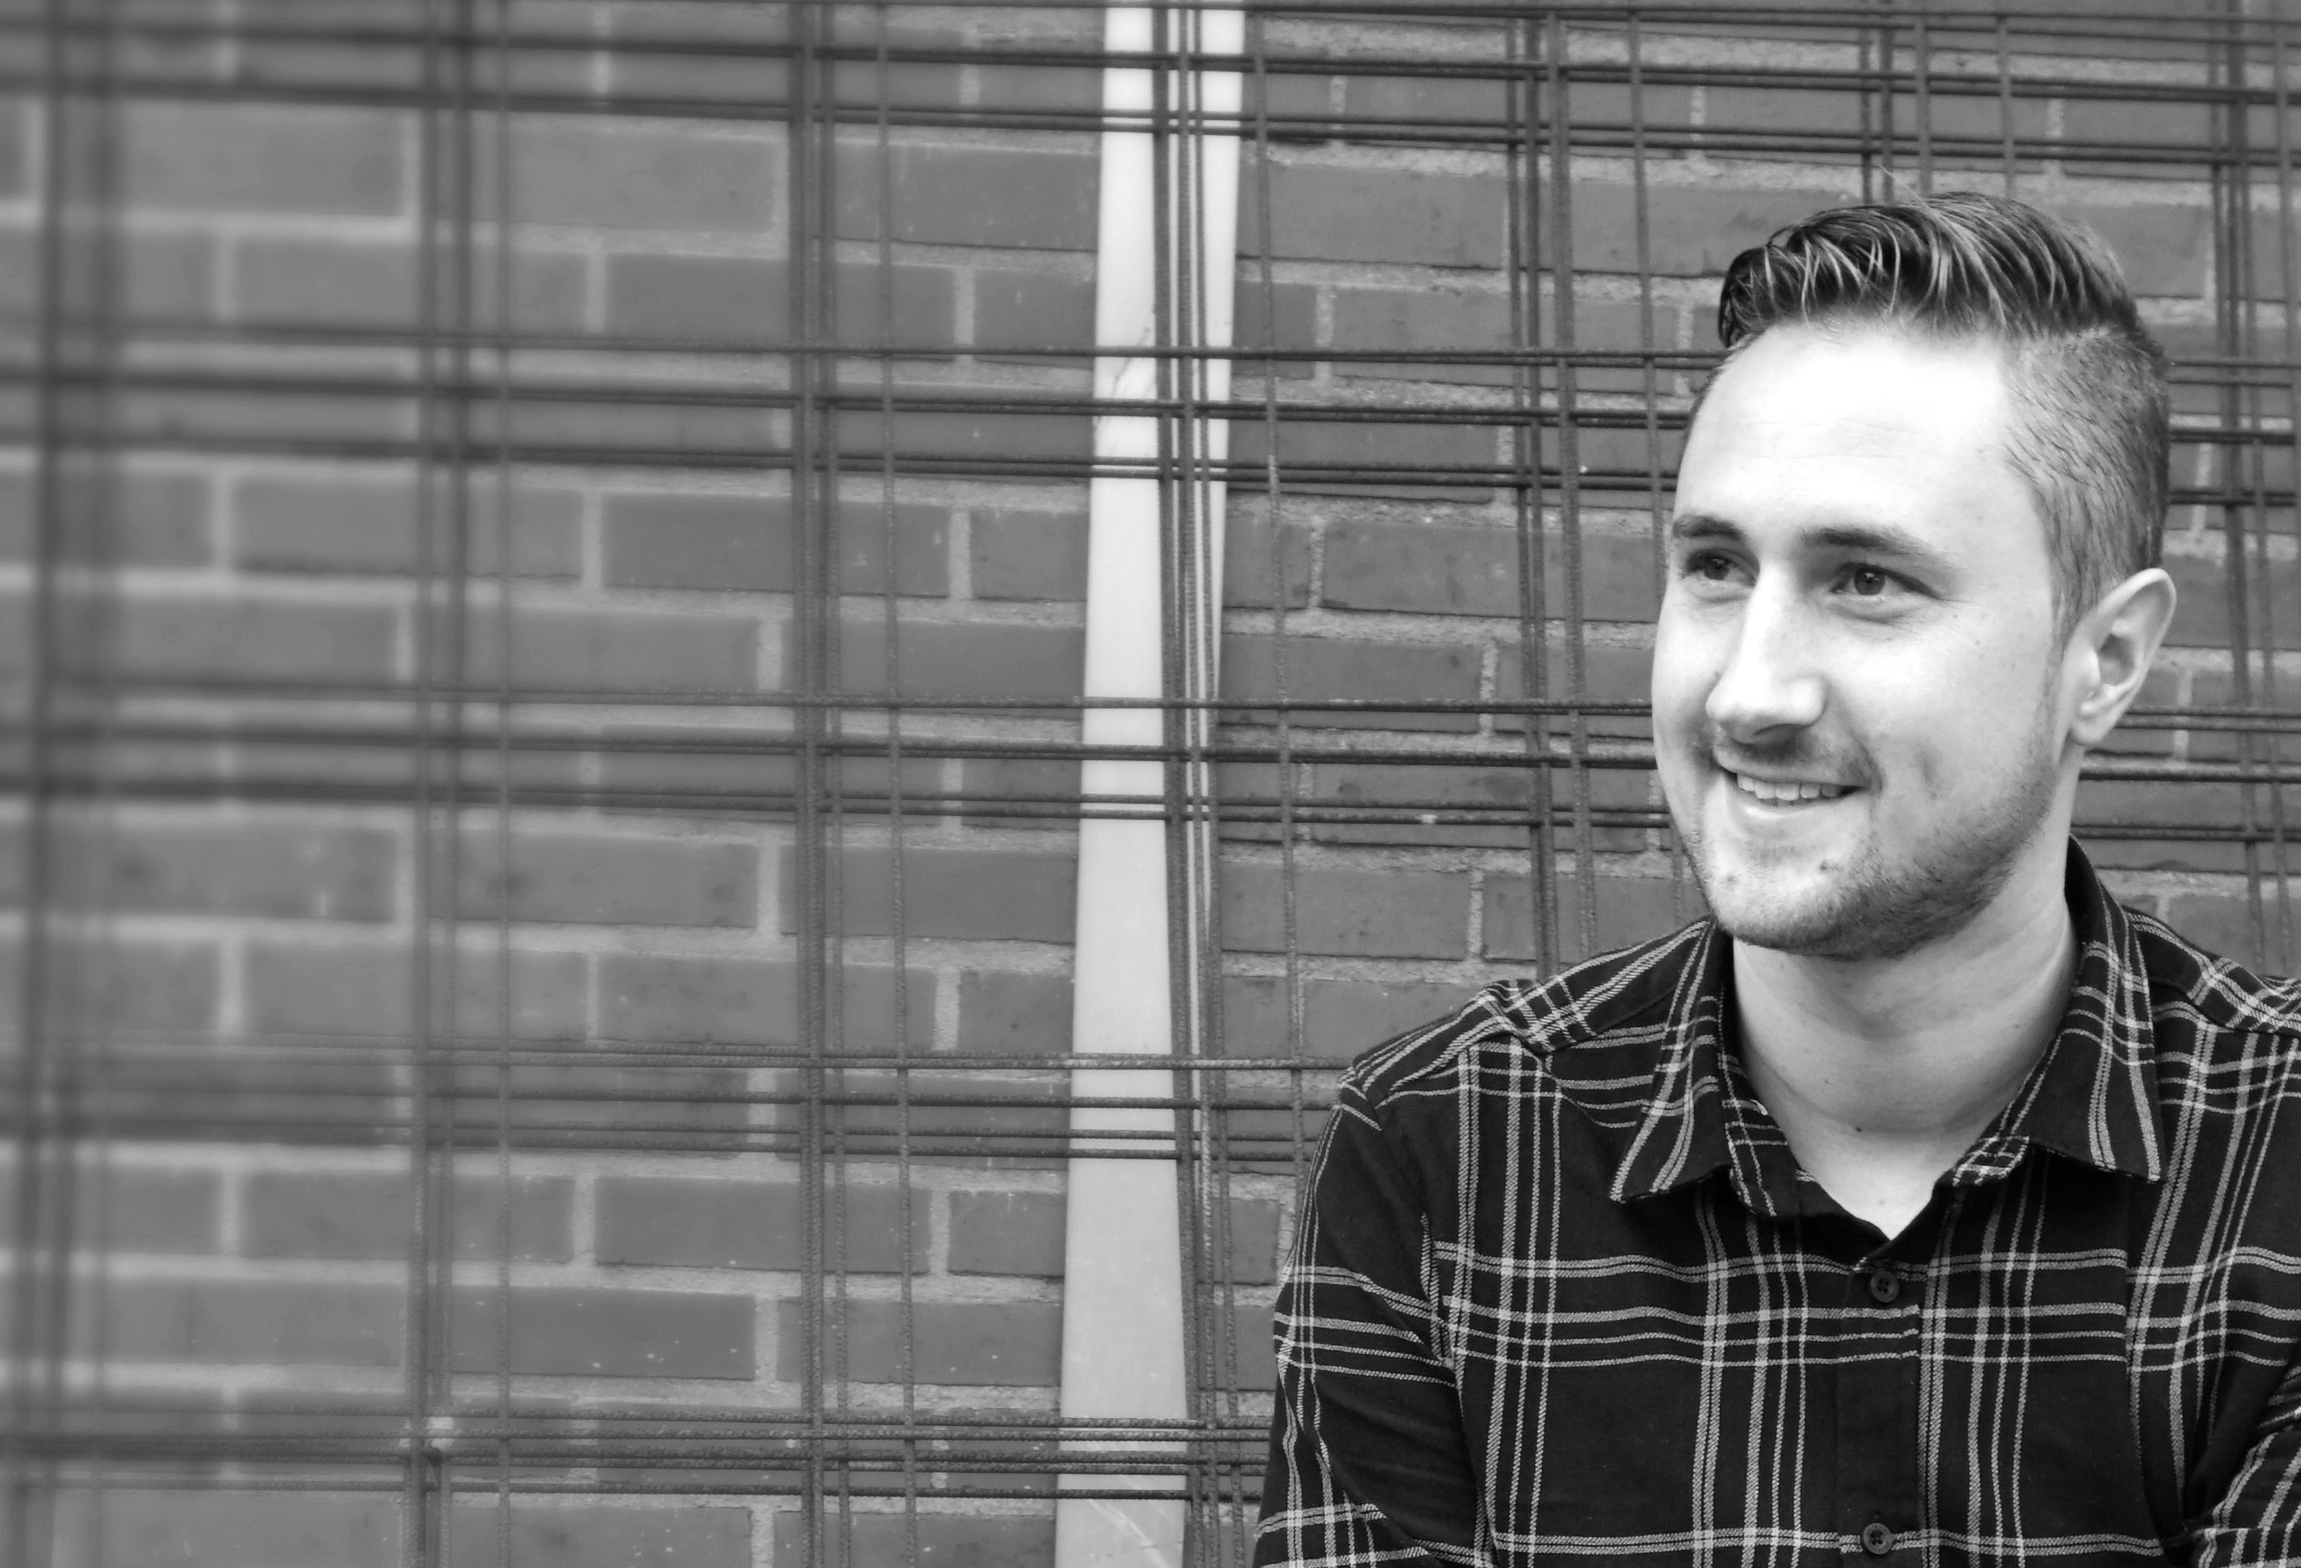
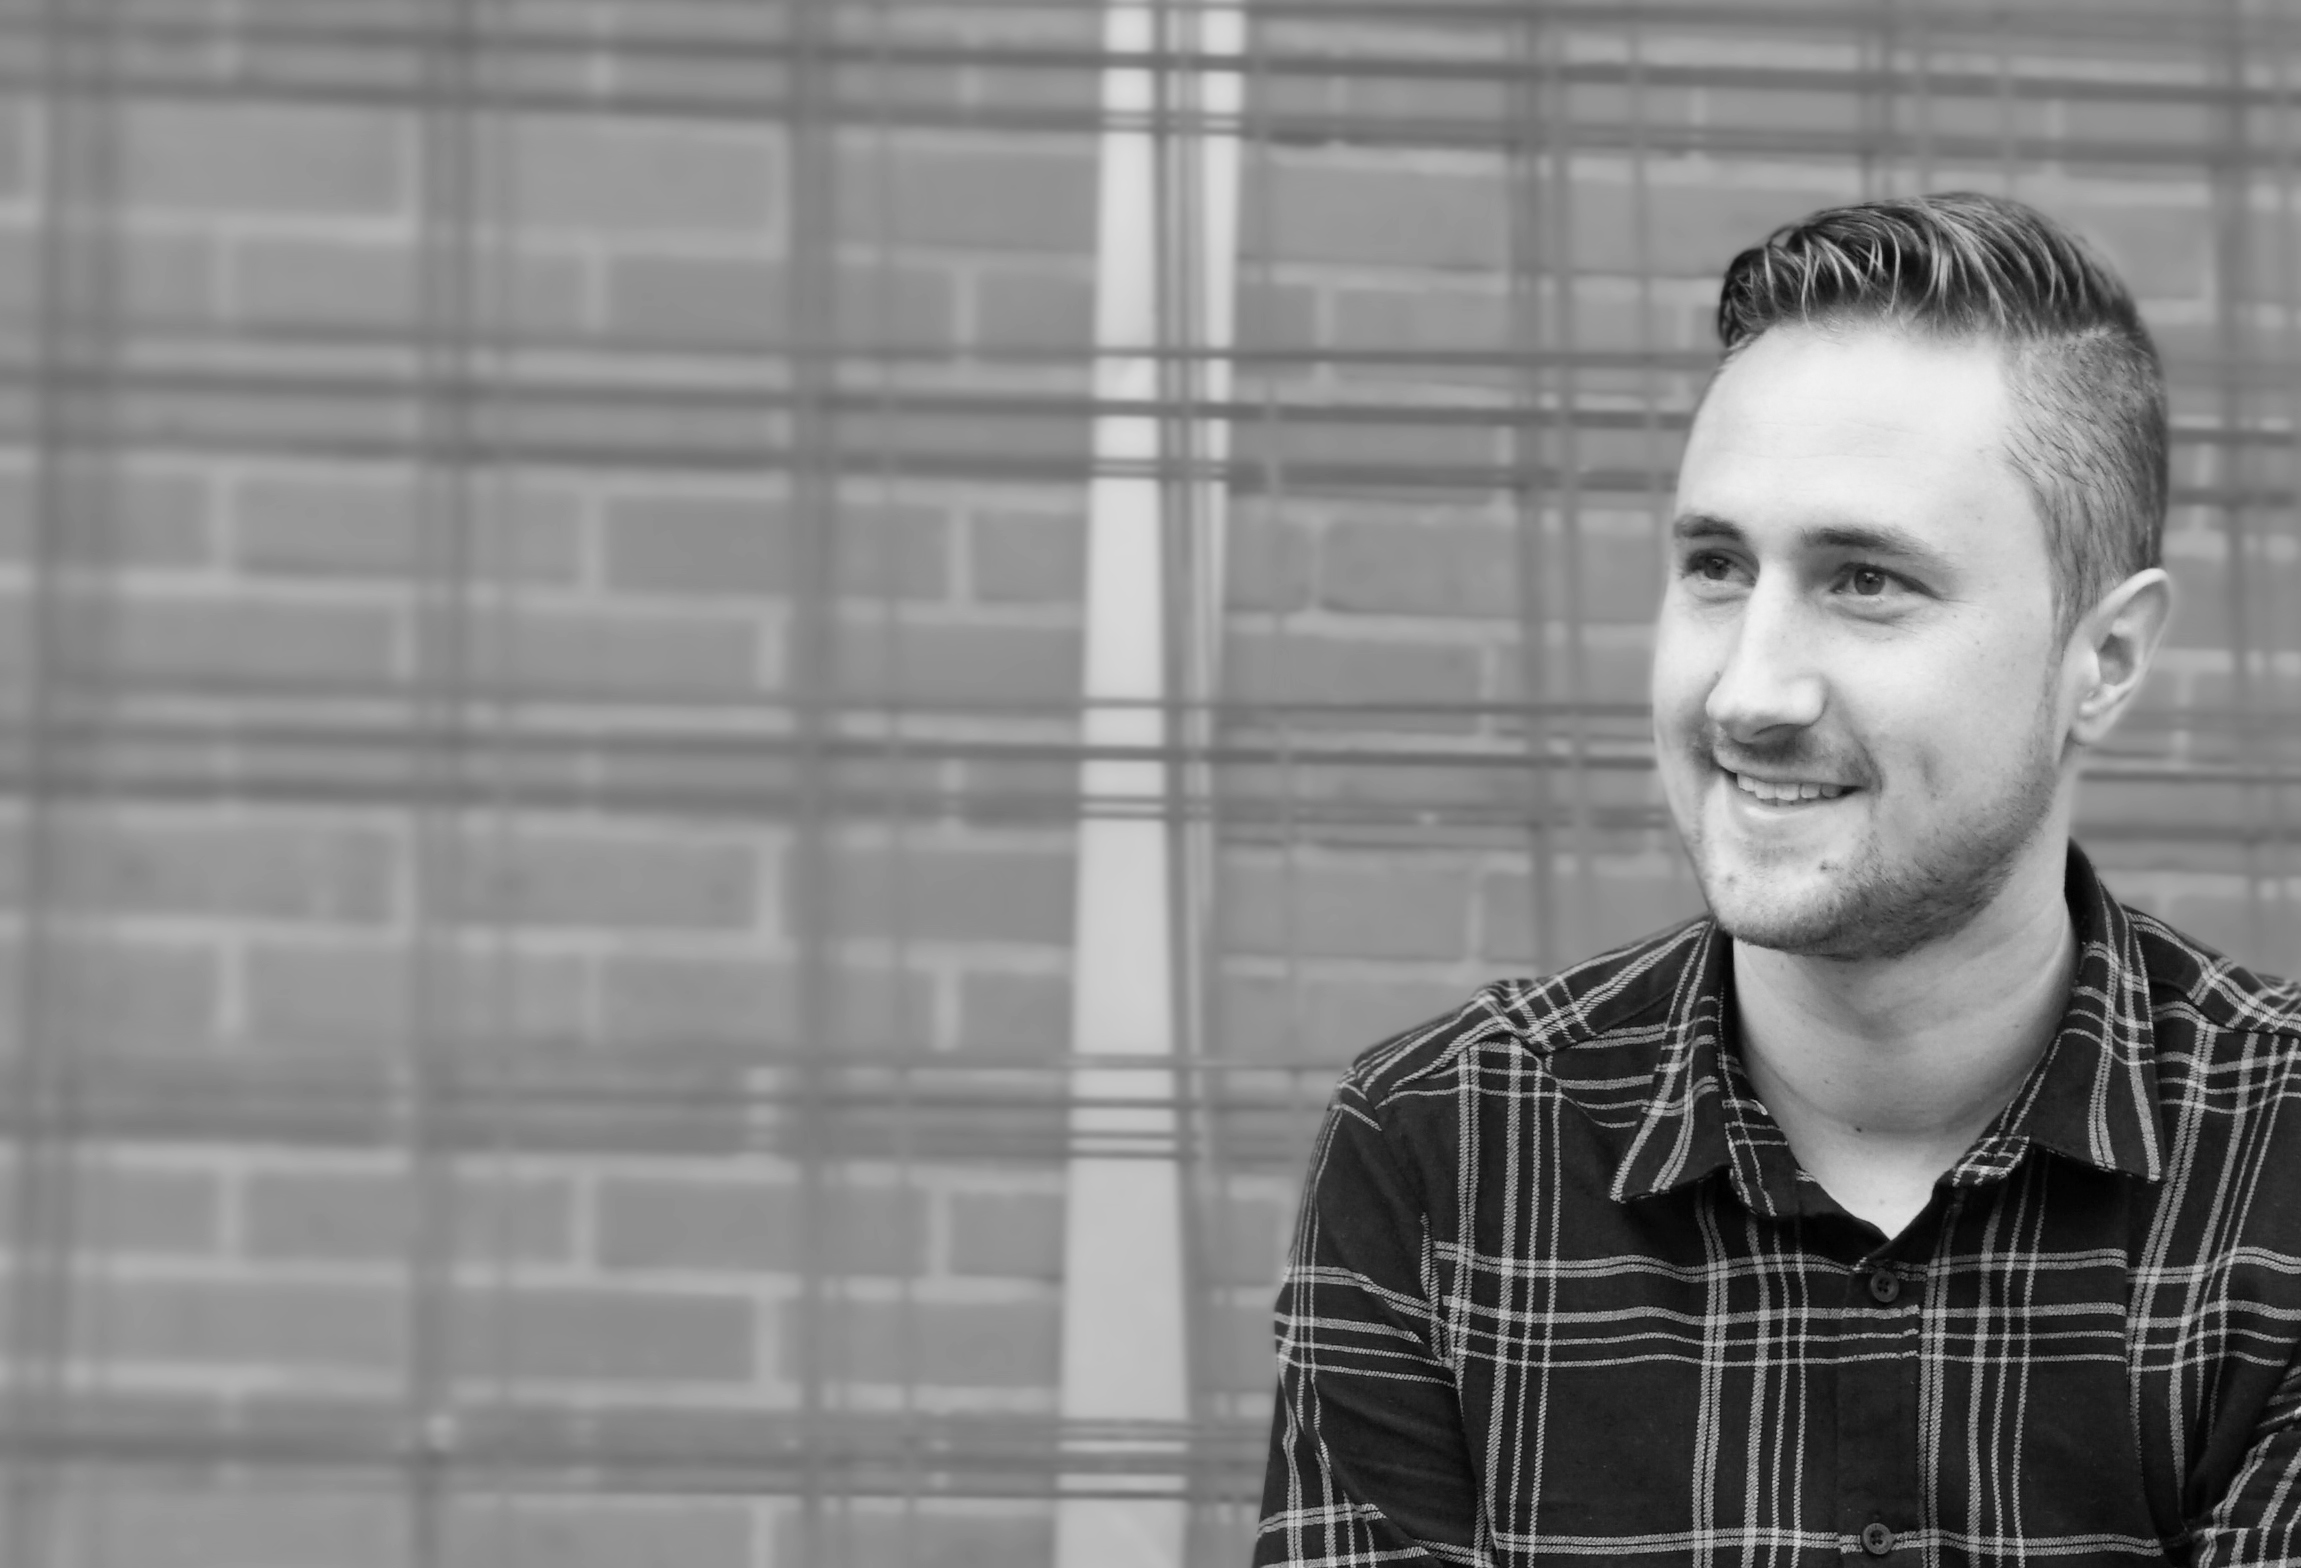
Updated images

diff --git a/src/styles/layout/_main.scss b/src/styles/layout/_main.scss
@@ -1,5 +1,5 @@
 .container {
-	background-image: url('/src/images/background-big.jpg');
+	background-image: url('/src/images/background.jpg');
 	background-repeat: no-repeat;
 	background-position: top center;
 	background-attachment: fixed;
